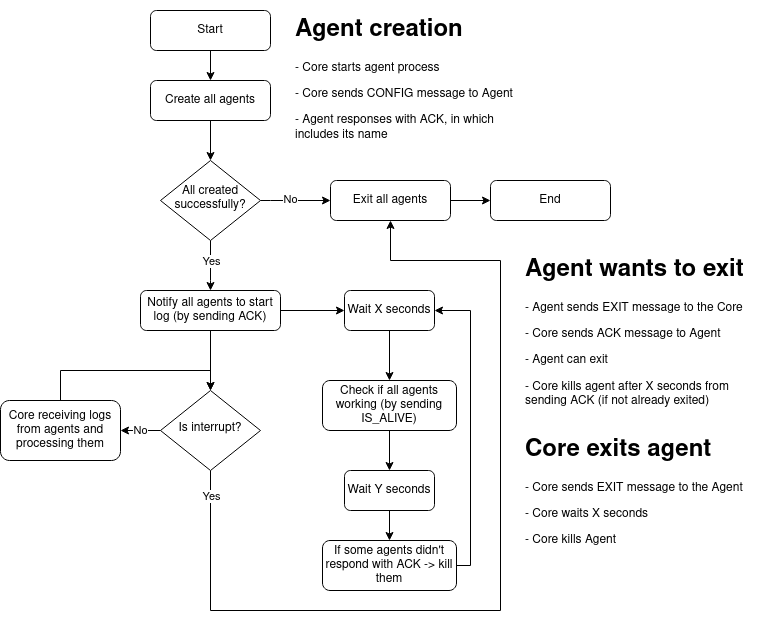
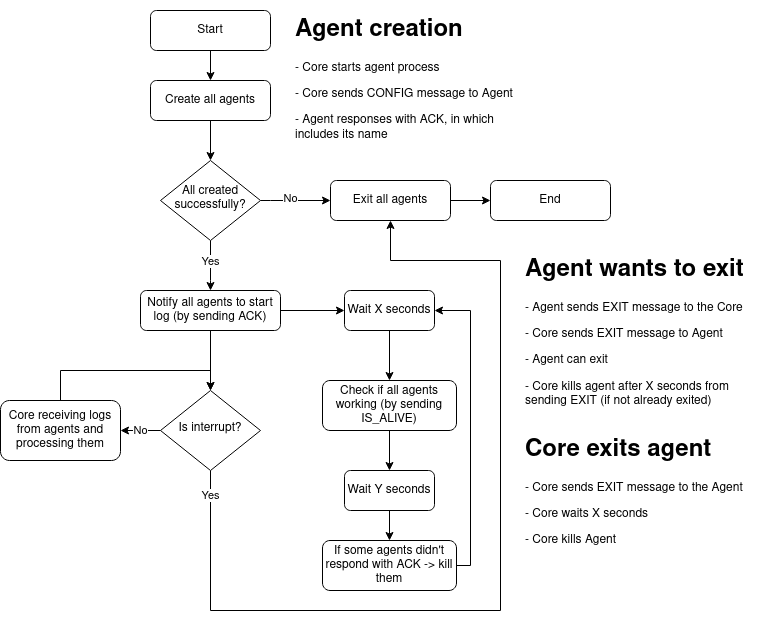
Better agent exiting

diff --git a/core/src/modulog/core/Core.cpp b/core/src/modulog/core/Core.cpp
@@ -7,19 +7,20 @@ namespace modulog::core {
             server_(*ioContext, messageMutex_, messageConditionVar_, totalReceivedMessages_, sharedSettings),
             sharedSettings_(sharedSettings) {
         ioContext_ = ioContext;
-        agentHandler_ = std::make_shared<AgentHandler>(std::filesystem::absolute(sharedSettings_->LogSettings.enabledAgentsPath));
+        agentHandler_ = std::make_shared<AgentHandler>(
+                std::filesystem::absolute(sharedSettings_->LogSettings.enabledAgentsPath));
     }
 
     void Core::start() {
         // start server:
-        #ifdef BRINGAUTO_TESTS
-            sharedSettings_->Testing.transitions->goToState("Start");
-        #endif
+#ifdef BRINGAUTO_TESTS
+        sharedSettings_->Testing.transitions->goToState("Start");
+#endif
         server_.startAccept();
         serverThread_ = std::thread{[this]() { ioContext_->run(); }};
-        #ifdef BRINGAUTO_TESTS
-            sharedSettings_->Testing.transitions->goToState("ServerCreated");
-        #endif
+#ifdef BRINGAUTO_TESTS
+        sharedSettings_->Testing.transitions->goToState("ServerCreated");
+#endif
         try {
             initAllAgents();
         } catch (std::exception &e) {
@@ -31,34 +32,36 @@ namespace modulog::core {
         LogSaver logSaver(sharedSettings_->LogSettings.logsDestination);
         bringauto::logging::Logger::logInfo("Logging...");
         while (!stopFlag.load() && !agentHandler_->getRunningAgents().empty()) {
-            #ifdef BRINGAUTO_TESTS
-                if(!stopFlag.load())
-                        sharedSettings_->Testing.transitions->goToState("WaitForMessage");
-            #endif
+#ifdef BRINGAUTO_TESTS
+            if (!stopFlag.load())
+                sharedSettings_->Testing.transitions->goToState("WaitForMessage");
+#endif
             {
                 std::unique_lock<std::mutex> lck(messageMutex_);
                 messageConditionVar_.wait(lck, [this] { return totalReceivedMessages_; });
                 totalReceivedMessages_--;
             }
-            #ifdef BRINGAUTO_TESTS
-                if(!stopFlag.load())
-                        sharedSettings_->Testing.transitions->goToState("ProcessMessage");
-            #endif
+#ifdef BRINGAUTO_TESTS
+            if (!stopFlag.load())
+                sharedSettings_->Testing.transitions->goToState("ProcessMessage");
+#endif
             std::vector<std::shared_ptr<Agent>> agentsToDel;
             int i = 0;
             for (auto &actAgent: agentHandler_->getRunningAgents()) {
                 auto controlMsg = actAgent->getMessageExchanger()->popControlMessage();
                 if (controlMsg != nullptr) {
                     if (controlMsg->getType() == communication::ControlMessage::CONTROL_MSG_TYPE::EXIT) {
-                        std::cerr << "Agent " << actAgent->getId() << " wants to exit..." << std::endl;
+                        actAgent->setExpectedExit(true);
                         auto exitControlMsg = std::make_shared<communication::ControlMessage>(
-                                communication::ControlMessage::CONTROL_MSG_TYPE::EXIT_ACK, "");
+                                communication::ControlMessage::CONTROL_MSG_TYPE::EXIT, "");
                         actAgent->getMessageExchanger()->sendControl(exitControlMsg);
                         agentsToDel.push_back(actAgent);
                         continue;
                     } else if (controlMsg->getType() == communication::ControlMessage::CONTROL_MSG_TYPE::EXIT_ERR) {
                         std::cerr << "Core received EXIT_ERR from " << actAgent->getId() << std::endl;
-                        logSaver.logAgentCrash(actAgent->getId());
+                        if (!actAgent->getExpectedExit()) {
+                            logSaver.logAgentCrash(actAgent->getId());
+                        }
                         agentsToDel.push_back(actAgent);
                         continue;
                     } else if (controlMsg->getType() == communication::ControlMessage::CONTROL_MSG_TYPE::ACK) {
@@ -75,9 +78,9 @@ namespace modulog::core {
             }
             agentsToDel.clear();
         }
-        #ifdef BRINGAUTO_TESTS
-            sharedSettings_->Testing.transitions->goToState("Exiting");
-        #endif
+#ifdef BRINGAUTO_TESTS
+        sharedSettings_->Testing.transitions->goToState("Exiting");
+#endif
         cleanAll();
     }
 
@@ -123,13 +126,14 @@ namespace modulog::core {
     void Core::initAllAgents() {
         std::shared_ptr<AgentProcess> agentInfo;
         while ((agentInfo = agentHandler_->runNextAgent()) != nullptr) {
-            #ifdef BRINGAUTO_TESTS
-                sharedSettings_->Testing.transitions->goToState("CreatingAgent");
-            #endif
+#ifdef BRINGAUTO_TESTS
+            sharedSettings_->Testing.transitions->goToState("CreatingAgent");
+#endif
             bringauto::logging::Logger::logInfo("waiting for ag. connection...");
             std::shared_ptr<communication::TcpConnection> agentConnection;
             auto endConnectionTime =
-                    std::chrono::system_clock::now() + std::chrono::seconds(sharedSettings_->ServerSettings.connectionTimeoutSec);
+                    std::chrono::system_clock::now() +
+                    std::chrono::seconds(sharedSettings_->ServerSettings.connectionTimeoutSec);
             while ((endConnectionTime > std::chrono::system_clock::now()) &&
                    (agentConnection = server_.popConnection()) == nullptr) {
                 std::this_thread::sleep_for(std::chrono::microseconds(
@@ -159,7 +163,7 @@ namespace modulog::core {
 
             //Now expecting ACK response with agent name:
             std::string agentName = respControlMessage->getValue();
-            if(agentName.empty())
+            if (agentName.empty())
                 throw std::runtime_error("Agent didn't send name!");
             agentInfo->setAgentId(agentName);
             agentHandler_->addNewAgent(messageExchanger, agentInfo);
@@ -185,17 +189,20 @@ namespace modulog::core {
             agentsToDel.push_back(toDel); // Cannot delete from inside for range - its removing from vector
         }
         for (auto &toDel: agentsToDel) {
-            #ifdef BRINGAUTO_TESTS
-                sharedSettings_->Testing.transitions->goToState("StopAgent");
-            #endif
+#ifdef BRINGAUTO_TESTS
+            sharedSettings_->Testing.transitions->goToState("StopAgent");
+#endif
+            auto exitMsg = std::make_shared<communication::ControlMessage>(
+                    communication::ControlMessage::CONTROL_MSG_TYPE::EXIT, "");
+            toDel->getMessageExchanger()->sendControl(exitMsg);
             agentHandler_->deleteAgent(toDel);
         }
         ioContext_->stop();
         serverThread_.join();
         sendAliveTimer_.cancel();
-        #ifdef BRINGAUTO_TESTS
-            sharedSettings_->Testing.transitions->goToState("CleanExit");
-        #endif
+#ifdef BRINGAUTO_TESTS
+        sharedSettings_->Testing.transitions->goToState("CleanExit");
+#endif
     }
 
 

diff --git a/agent-client/src/modulog/agent_client/AgentClient.cpp b/agent-client/src/modulog/agent_client/AgentClient.cpp
@@ -5,7 +5,7 @@ namespace modulog::agent_client{
 
     AgentClient::AgentClient(std::shared_ptr<asio::io_context> &ioContext, bool isDebug, std::string agentName)
             : ioContext_(ioContext), isDebug_(isDebug), agentName_(agentName){
-        confirmedExit_ = false;
+        shouldExit_ = false;
         msgProcessor_ = std::make_shared<communication::MessageProcessor>(totalMsgsReceived_, msgCondVar_, msgMutex_);
     }
 
@@ -61,7 +61,7 @@ namespace modulog::agent_client{
 
 
     void AgentClient::handleResponses() {
-        while(confirmedExit_.load() != true){
+        while(shouldExit_.load() != true){
             auto controlMsg = messageExchanger_->waitForControlMessage(-1);
             if(controlMsg == nullptr){ // This should not happen
                 std::cerr << "No control message!"<< std::endl;
@@ -73,9 +73,7 @@ namespace modulog::agent_client{
                 auto ackAliveMsg = std::make_shared<communication::ControlMessage>(modulog::communication::ControlMessage::CONTROL_MSG_TYPE::ACK, "");
                 messageExchanger_->sendControl(ackAliveMsg);
             }else if(controlMsg->getType() == communication::ControlMessage::CONTROL_MSG_TYPE::EXIT){
-                std::cout << "Agent received EXIT - should exit now." << std::endl; //TODO exit
-            }else if(controlMsg->getType() == communication::ControlMessage::CONTROL_MSG_TYPE::EXIT_ACK){
-                confirmedExit_ = true;
+                shouldExit_ = true;
             }
         }
     }
@@ -87,7 +85,7 @@ namespace modulog::agent_client{
     void AgentClient::exitConnection() {
         auto exitMsg = std::make_shared<communication::ControlMessage>(modulog::communication::ControlMessage::CONTROL_MSG_TYPE::EXIT, "");
         sendControl(exitMsg);
-        while(confirmedExit_.load() != true){ // Active waiting, but just a few millis, so its ok
+        while(shouldExit_.load() != true){ // Active waiting, but just a few millis, so its ok
             std::this_thread::sleep_for(std::chrono::milliseconds(100));
         }
         responseHandleThread.join();

diff --git a/core/include/modulog/core/Agent.hpp b/core/include/modulog/core/Agent.hpp
@@ -12,7 +12,7 @@
 #include <filesystem>
 #include <utility>
 
-namespace modulog::core{
+namespace modulog::core {
 /**
  * Class representing agent - contains running instance of agent in AgentInfo and contains also
  * meta information about agent, like if he confirmed isAlive message etc.
@@ -24,7 +24,8 @@ namespace modulog::core{
          * @param agentInfo representing running agent process
          * @param messageExchanger for sending and receiving messages from/to agent
          */
-        Agent(const std::shared_ptr<AgentProcess> &agentInfo, const std::shared_ptr<communication::MessageExchanger> &messageExchanger) :
+        Agent(const std::shared_ptr<AgentProcess> &agentInfo,
+              const std::shared_ptr<communication::MessageExchanger> &messageExchanger) :
                 agentProcess_(agentInfo), messageExchanger_(messageExchanger) {}
 
         /**
@@ -56,7 +57,20 @@ namespace modulog::core{
          */
         std::shared_ptr<communication::MessageExchanger> getMessageExchanger();
 
+        /**
+         * if is agent exiting by core, this should be marked as true to know, that agent didn't fail
+         * @param expectedExit
+         */
+        void setExpectedExit(bool expectedExit);
+
+        /**
+         * Default value is false - use this function just if agent exited to get status of exit
+         * @return true if agent had clean exit, false if error occured in agent.
+         */
+        bool getExpectedExit();
+
     private:
+        bool expectedExit_ = false;
         bool confirmedAlive_ = false;
         std::shared_ptr<communication::MessageExchanger> messageExchanger_;
         std::shared_ptr<AgentProcess> agentProcess_;

diff --git a/agent-client/include/modulog/agent_client/AgentClient.hpp b/agent-client/include/modulog/agent_client/AgentClient.hpp
@@ -84,7 +84,7 @@ namespace modulog::agent_client {
         std::string sharedConfig;
         std::atomic<bool> simulatedFreeze = false;
         // Sync vars:
-        std::atomic<bool> confirmedExit_;
+        std::atomic<bool> shouldExit_;
         std::mutex msgMutex_;
         std::condition_variable msgCondVar_;
         int totalMsgsReceived_ = 0;

diff --git a/communication/include/modulog/communication/ControlMessage.hpp b/communication/include/modulog/communication/ControlMessage.hpp
@@ -11,7 +11,7 @@ namespace modulog::communication {
     class ControlMessage : public Message {
     public:
         enum class CONTROL_MSG_TYPE {
-            CONFIG, ACK, IS_ALIVE, EXIT, EXIT_ERR, EXIT_ACK
+            CONFIG, ACK, IS_ALIVE, EXIT, EXIT_ERR
         };
 
         ControlMessage(std::string jsonInit);

diff --git a/core/src/modulog/core/Agent.cpp b/core/src/modulog/core/Agent.cpp
@@ -26,7 +26,13 @@ namespace modulog::core{
         return messageExchanger_;
     }
 
+    bool Agent::getExpectedExit() {
+        return expectedExit_;
+    }
 
+    void Agent::setExpectedExit(bool expectedExit) {
+        expectedExit_ = expectedExit;
+    }
 
 
 }
